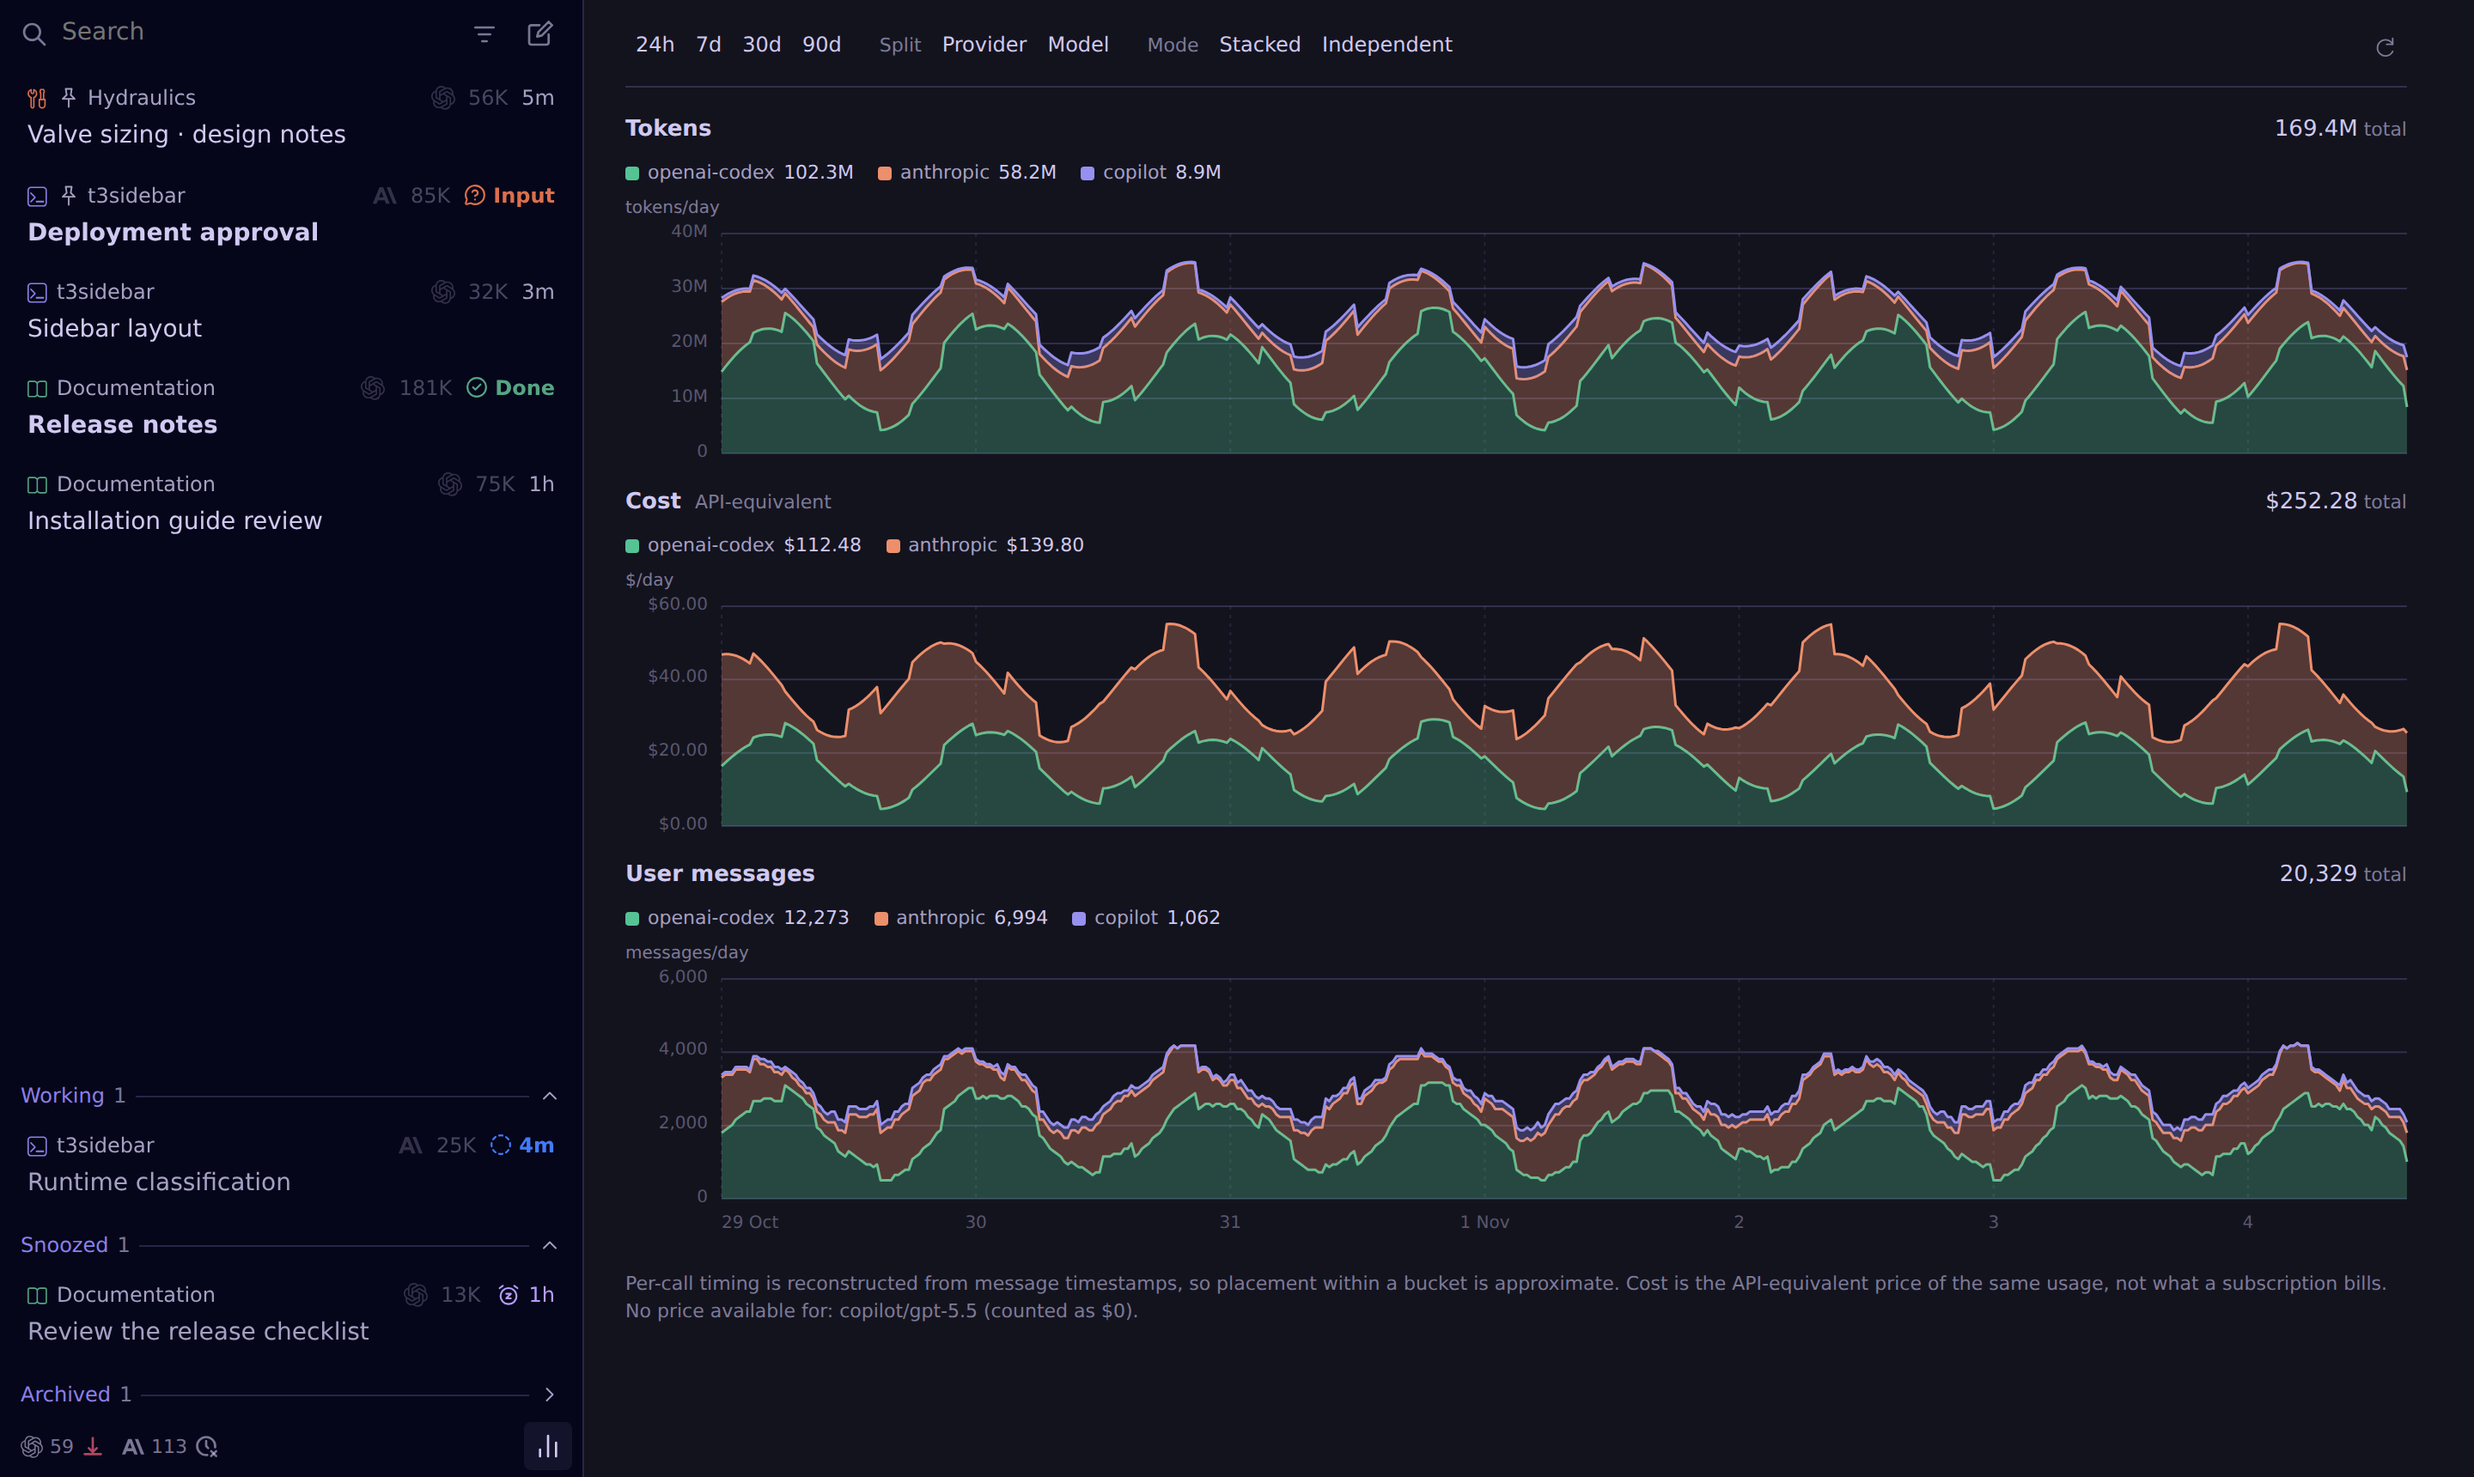
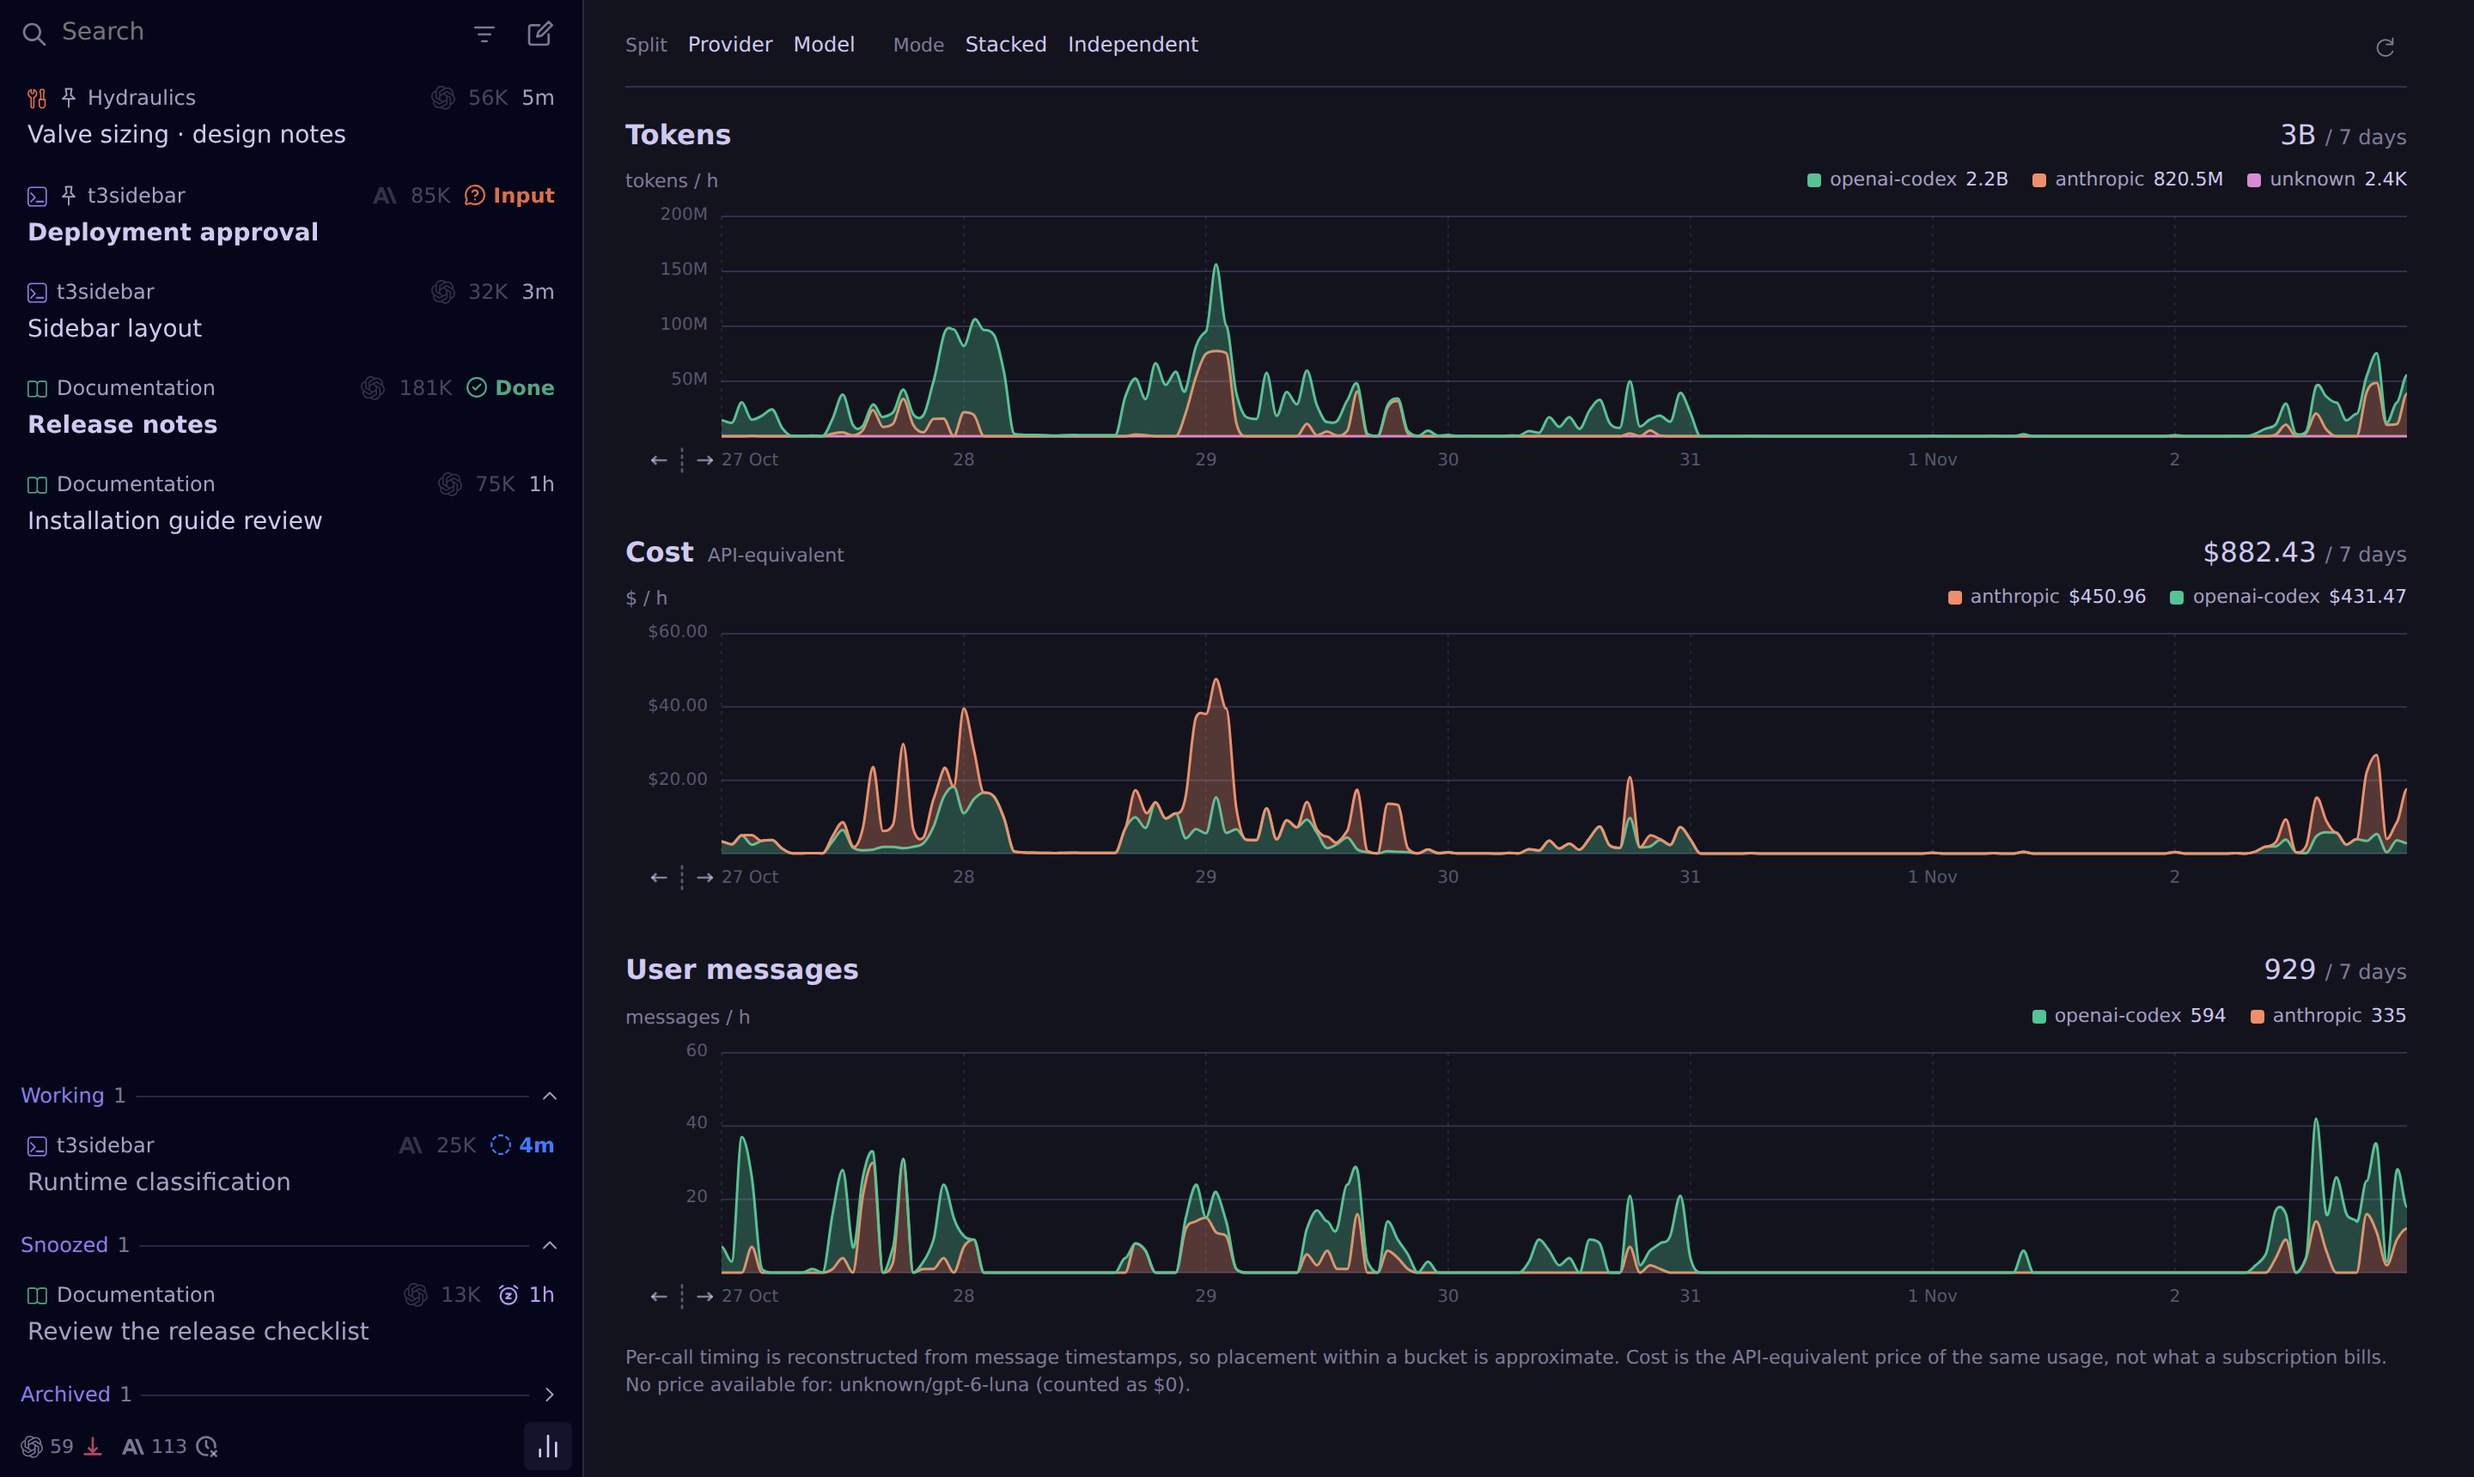
docs: refresh README screenshots

diff --git a/README.md b/README.md
@@ -37,11 +37,11 @@
 ### Usage page
 
 - Footer chart button → **Usage** page.
-- Charts on one time axis: tokens, API-equivalent cost, human user messages, as per-day rates.
+- Charts on one time axis: tokens, API-equivalent cost, human user messages, as amounts per bucket sized to the period.
 - Configurable period, per-provider or per-model series, stacking.
 - Read-only from Hermes's `session_model_usage`; no extra storage.
 
-![Usage page: tokens, API-equivalent cost and user messages per day over 7 days, stacked by provider](docs/images/usage.png)
+![Usage page: tokens, API-equivalent cost and user messages per hour over 7 days, stacked by provider with the largest on top, curved through every hourly value](docs/images/usage.png)
 
 ### Limits page
 
